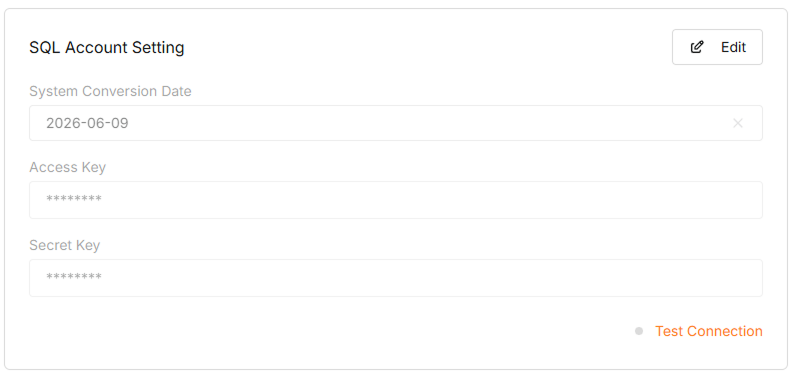
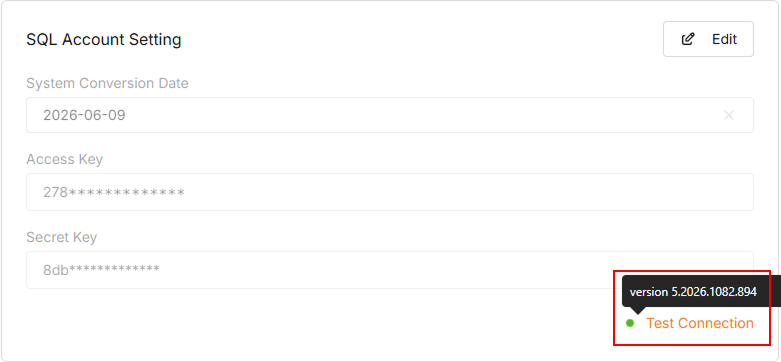
update: update settings documentation and clean post order from order documentation

diff --git a/docs/integration/xstore/settings.md b/docs/integration/xstore/settings.md
@@ -11,7 +11,7 @@ The Settings module consists of these main sections to help you manage your orga
 - **Company** - Manage your organization's profile and configuration
 - **Users** - Control team member access and invitations
 - **Permissions** - Define roles and access control
-- **Repost** - Repost orders to adjust invoices
+- **Post Orders** - Post invoices for the orders to SQL Account
 - **Customize Template** - Customize Picking List Template
 
 ## Company
@@ -20,7 +20,7 @@ The Settings module consists of these main sections to help you manage your orga
 Check out our [Setup Guide](../xstore/setup#step-1-create-company) for detailed instructions on creating your company profile.
 :::
 
-View and update your company's information, including business details and API configurations.
+View and update your company information, including business details and API configurations.
 
 ![company-overview](../../../static/img/xstore/settings/company-overview.png)
 
@@ -52,13 +52,15 @@ For more details on SQL Account configuration, see our [Setup Guide](../xstore/s
 You may add your SQL Account configuration here:
 
 1. System Conversion Date
-2. SQL Account Access key and Secret key
+2. SQL Account Access Key and Secret Key
+
+You can click **Test Connection** to verify the connection with the SQL Account API service. A green dot indicates a successful connection, and clicking it will display the SQL Account API version. A red dot indicates a connection error, and clicking it will display the error message.
 
 ![company-keys](../../../static/img/xstore/settings/company-keys.png)
 
 #### Company Setting
 
-Enable specific company features such as enabling **Auto Synchronize Quantity to Platform**.
+Enable specific company features such as enabling **Auto Synchronize Quantity to Platform** and update your desired default **Post Order Option** whether to *Manual Post* or *Post All*.
 
 ![company-sync](../../../static/img/xstore/settings/company-sync.png)
 
@@ -256,23 +258,55 @@ Roles can only be deleted if they're not assigned to any users. If the role is i
 
 ![permissions-role-create-dialog](../../../static/img/xstore/settings/permissions-role-create-dialog.png)
 
-## Repost
+## Post Order
 
-View posted orders and repost orders to update invoices.
+View orders in the Shipped, Delivered, or Completed state and post their invoices to SQL Account. This section has two tabs:
 
-![repost-overview](../../../static/img/xstore/settings/repost-overview.png)
+1. **Unposted Tab**: Orders that haven't been posted yet, or orders that were updated after their last posting date (i.e., the order's updated date is later than its posted date).
+2. **Posted Tab**: Orders that have already been posted and have no changes since.
 
-1. You can multiselect the orders and click the **Repost Order** button.
+![post-overview](../../../static/img/xstore/settings/post-overview.png)
 
-   ![repost-selection](../../../static/img/xstore/settings/repost-selection.png)
+You can change the View Options to see more order details, or use the filter options to narrow down which orders are displayed. By default, orders are filtered to those created within the last 30 days. You can include older orders by adjusting the filter options.
 
-2. Click **Continue** in the confirmation dialog to proceed or **Cancel** to discard operation.
+![post-view](../../../static/img/xstore/settings/post-view.png)
 
-   ![repost-confirmation](../../../static/img/xstore/settings/repost-confirmation.png)
+### Posting
 
-3. You can view the **Posted Date** and **Posted Message** in **Post Status** column.
+1. Select the orders you want to post, then click **Post Selected**. To select every order that matches your current filters, click **Select all filtered items**.
 
-   ![repost-history](../../../static/img/xstore/settings/repost-history.png)
+   ![post-selection](../../../static/img/xstore/settings/post-selection.png)
+
+2. To post all filtered orders in the **Unposted Tab** at once, click the dropdown next to **Post Selected** and choose **Post All**. You can also set your preferred posting option in advance under [Company Setting](#company-setting).
+
+   ![post-all](../../../static/img/xstore/settings/post-all.png)
+
+3. Clicking **Post Selected** opens a confirmation dialog. Check **Include Cancelled Orders** if you want cancelled orders posted along with the rest, then click **Continue** to proceed. Click **Cancel** to back out without posting.
+
+   ![post-confirmation](../../../static/img/xstore/settings/post-confirmation.png)
+
+4. A progress card shows the status of the posting process. If **Include Cancelled Orders** isn't selected, cancelled orders are shown as skipped. Orders still waiting to be processed are shown as queued.
+
+   ![post-progress](../../../static/img/xstore/settings/post-progress.png)
+
+5. Once posting completes, successfully posted orders move to the **Posted Tab** and their *Posted Date* is updated. Orders that fail to post stay in the current tab, with the failure reason shown in the **Post Status** column.
+
+   ![post-success](../../../static/img/xstore/settings/post-success.png)
+
+6. If an order fails to post with the reason *"Shop SKU not mapped to SQL Account stock item"*, open the order's details page to map the SKU accordingly.
+
+   ![post-map](../../../static/img/xstore/settings/post-map.png)
+
+### Failed Posting
+
+1. Click **View Failed Results** to see orders that failed to post in the previous post process, along with their failure reasons.
+2. Filter orders by failure reason.
+3. Select the relevant orders individually, or use **Select all filtered items** to select every order with a matching failure reason.
+4. Repost selected orders.
+
+This is useful once you've resolved the underlying cause of a failure and want to retry posting those orders.
+
+![post-failed](../../../static/img/xstore/settings/post-failed.png)
 
 ## Customize Template
 

diff --git a/docs/integration/xstore/orders/orders.md b/docs/integration/xstore/orders/orders.md
@@ -87,6 +87,7 @@ Use **Stock Pick** to optionally verify order items before processing orders for
 ![stock-pick-order](../../../../static/img/xstore/orders/stock-pick-order.png)
 
 ![stock-pick-verification](../../../../static/img/xstore/orders/stock-pick-verification.png)
+
 1. Click on the screen and scan the barcode
 2. **Alternative:** Type the barcode number manually and press Enter
 3. **Alternative:** Type the quantity in the **Scanned Qty** field
@@ -145,44 +146,6 @@ To move verified orders to **To Ship**:
 | Action                     | Description                            |
 | -------------------------- | -------------------------------------- |
 | **Mark as Delivered**      | Mark the order as delivered            |
-
-### Step 7: Post Orders to SQL Account
-
-Once orders reach **Shipped**, **Delivered**, or **Completed** status, you may post orders to SQL Account:
-
-1. The Post Order feature provides two posting modes:
-
-   - **Post All** (default): Posts all available orders directly to SQL Account.
-
-   - **Manual Post**: Allows user to select specific orders to post.
-
-2. Click the dropdown button and select posting mode
-
-3. To post all orders, select Post All and click the **Post All** button
-
-   ![postAll-orders](../../../../static/img/xstore/orders/postAll.png)
-
-4. To post selected orders:
-
-   - Select Manual Post from the dropdown.
-
-   - Select orders by clicking the checkbox next to each order
-
-   ![manualPost-orders](../../../../static/img/xstore/orders/manualPost.png)
-
-5. Click the **Manual Post** button; a popup dialog will appear as shown below
-
-   ![post-order-dialog](../../../../static/img/xstore/orders/post-order-dialog.png)
-
-6. Select **Include Cancelled Orders** to post the cancelled orders too
-
-7. Once the post order is complete, a toast notification will appear as shown below
-
-   ![post-order-completed](../../../../static/img/xstore/orders/post-order-completed.png)
-
-8. Each order's post status can be checked in the table under the **Post Status** column:
-   - **Failed Reason:** there is some error when posting the order
-   - **Posted Date:** the order had been posted before. May try to repost in **[Settings > Repost](../settings.md#repost)**
 
 ## General Features
 
